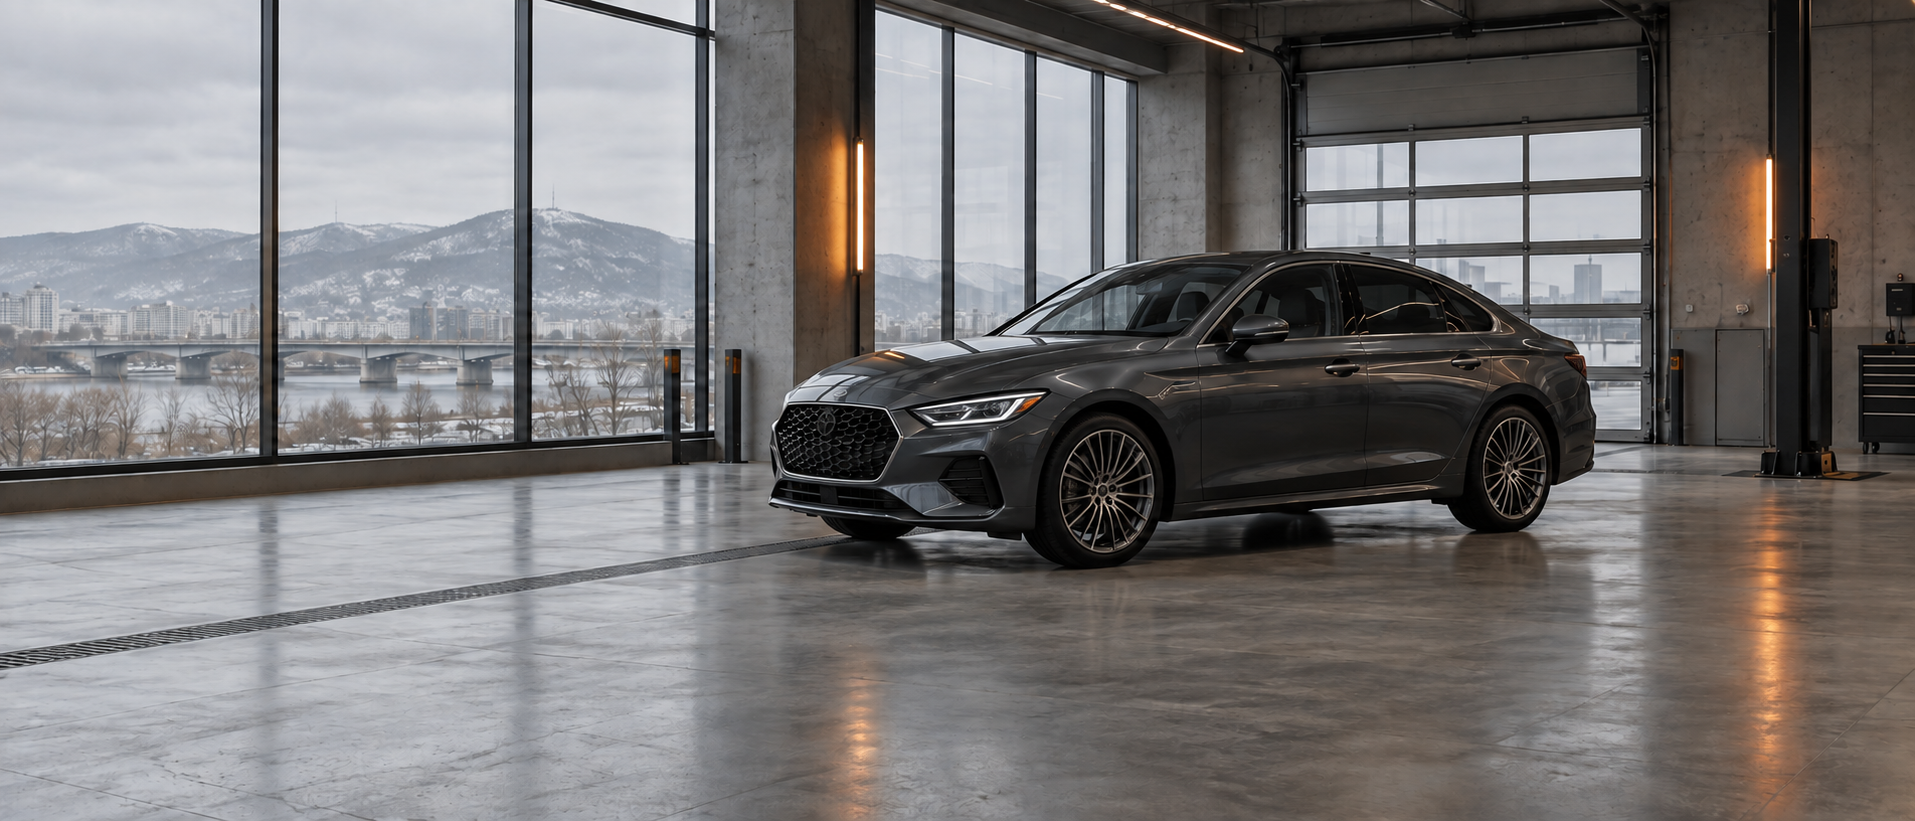
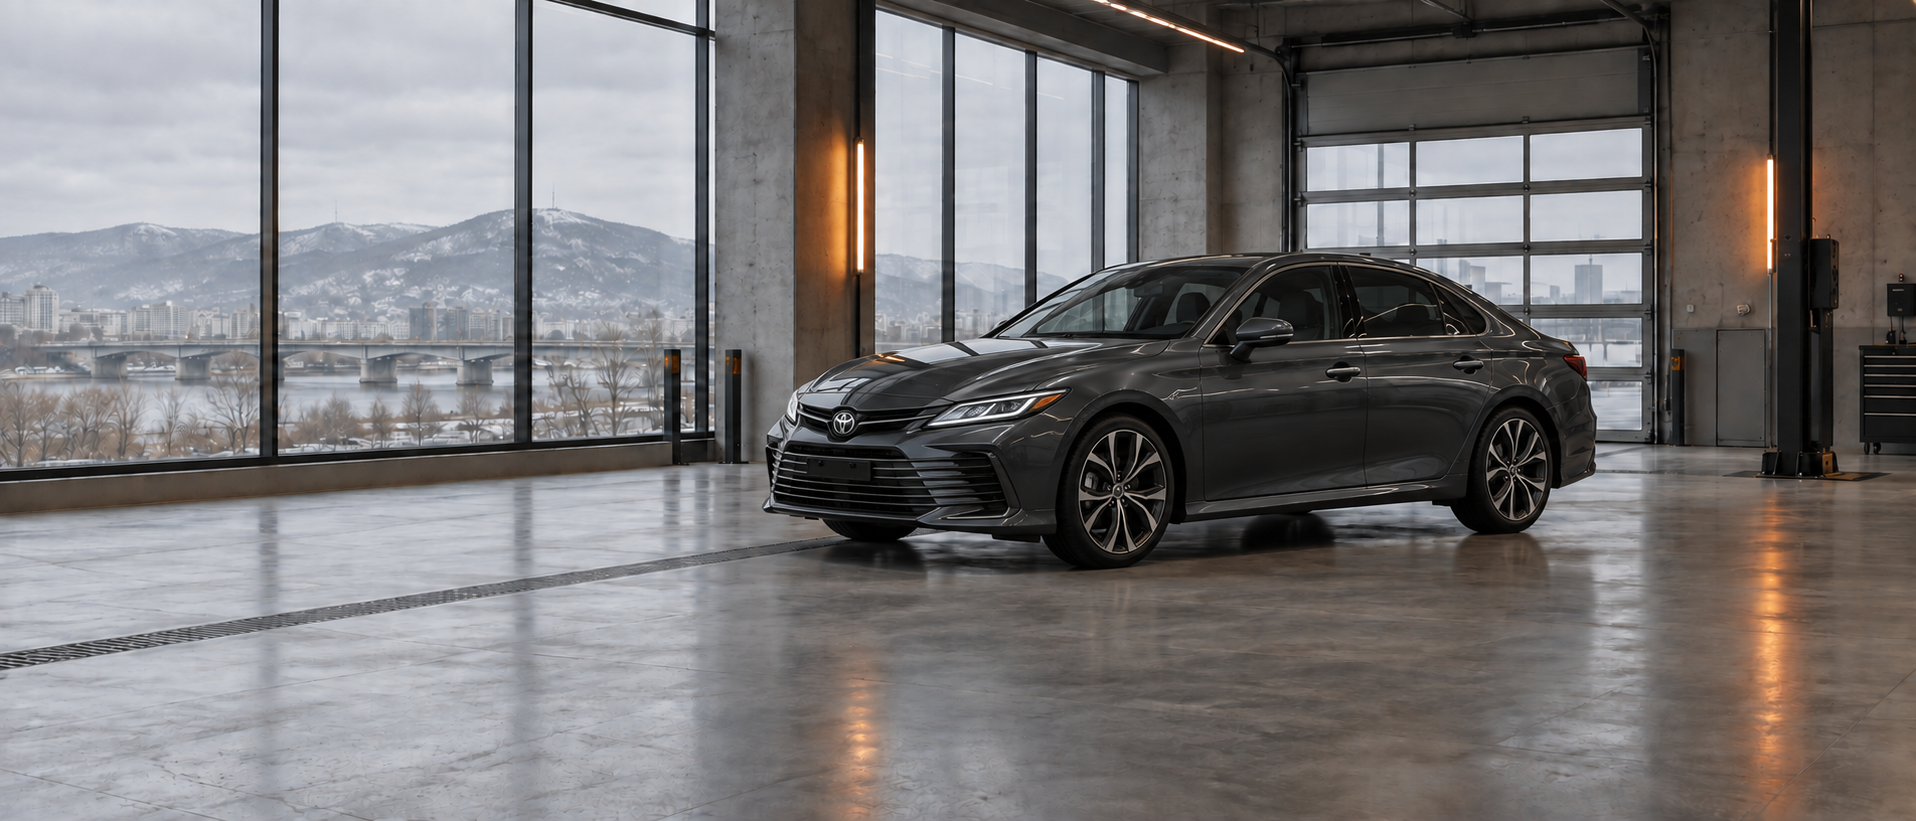
feat: feature Toyota Camry on about page

diff --git a/about/index.html b/about/index.html
@@ -53,7 +53,7 @@
         </section>
 
         <figure class="about-editorial">
-          <img src="../assets/about-editorial-car.png" alt="Автомобиль в современном центре S-AUTO" loading="lazy" />
+          <img src="../assets/about-editorial-car.png?v=2" alt="Toyota Camry в современном центре S-AUTO" loading="lazy" />
           <figcaption>
             <span>S-AUTO · Красноярск</span>
             <p>Спокойный путь к своему автомобилю — от выбора до оформления.</p>
